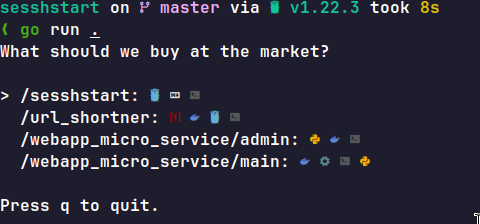
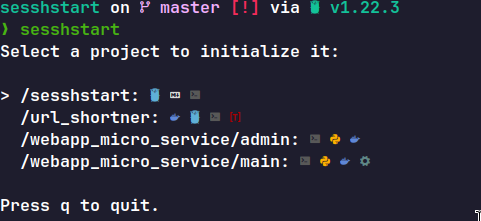
changed the wrong title

diff --git a/main.go b/main.go
@@ -69,7 +69,7 @@ func (m model) Update(msg tea.Msg) (tea.Model, tea.Cmd) {
 
 func (m model) View() string {
 	// The header
-	s := "What should we buy at the market?\n\n"
+  s := "Select a project to initialize it: \n\n"
 
 	// Iterate over our choices
 	for i, choice := range m.choices {
